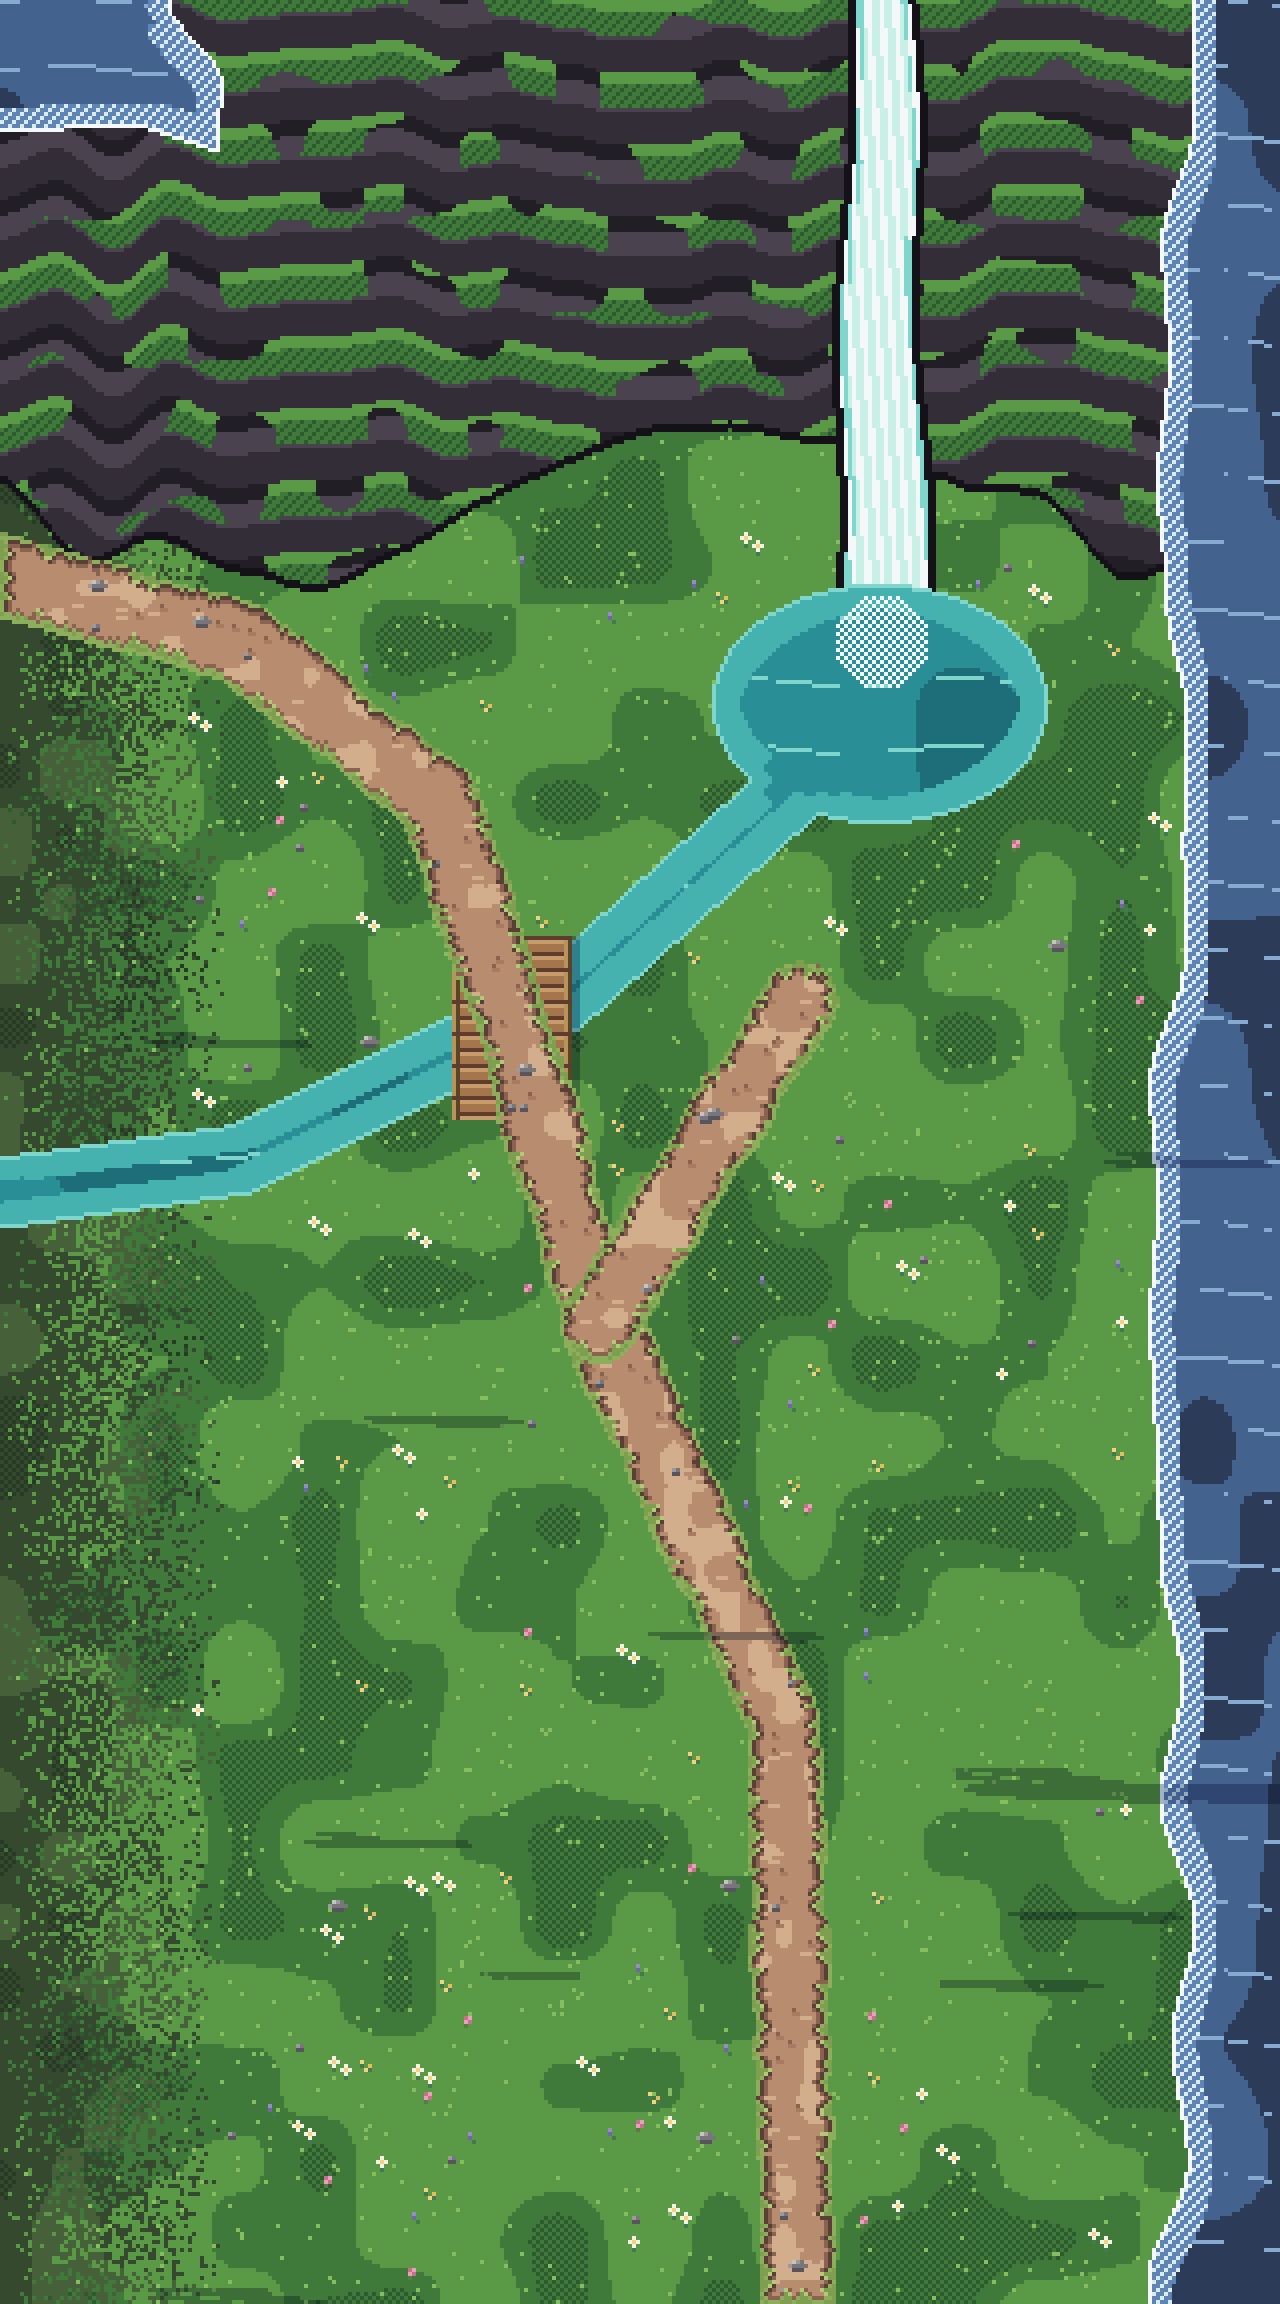
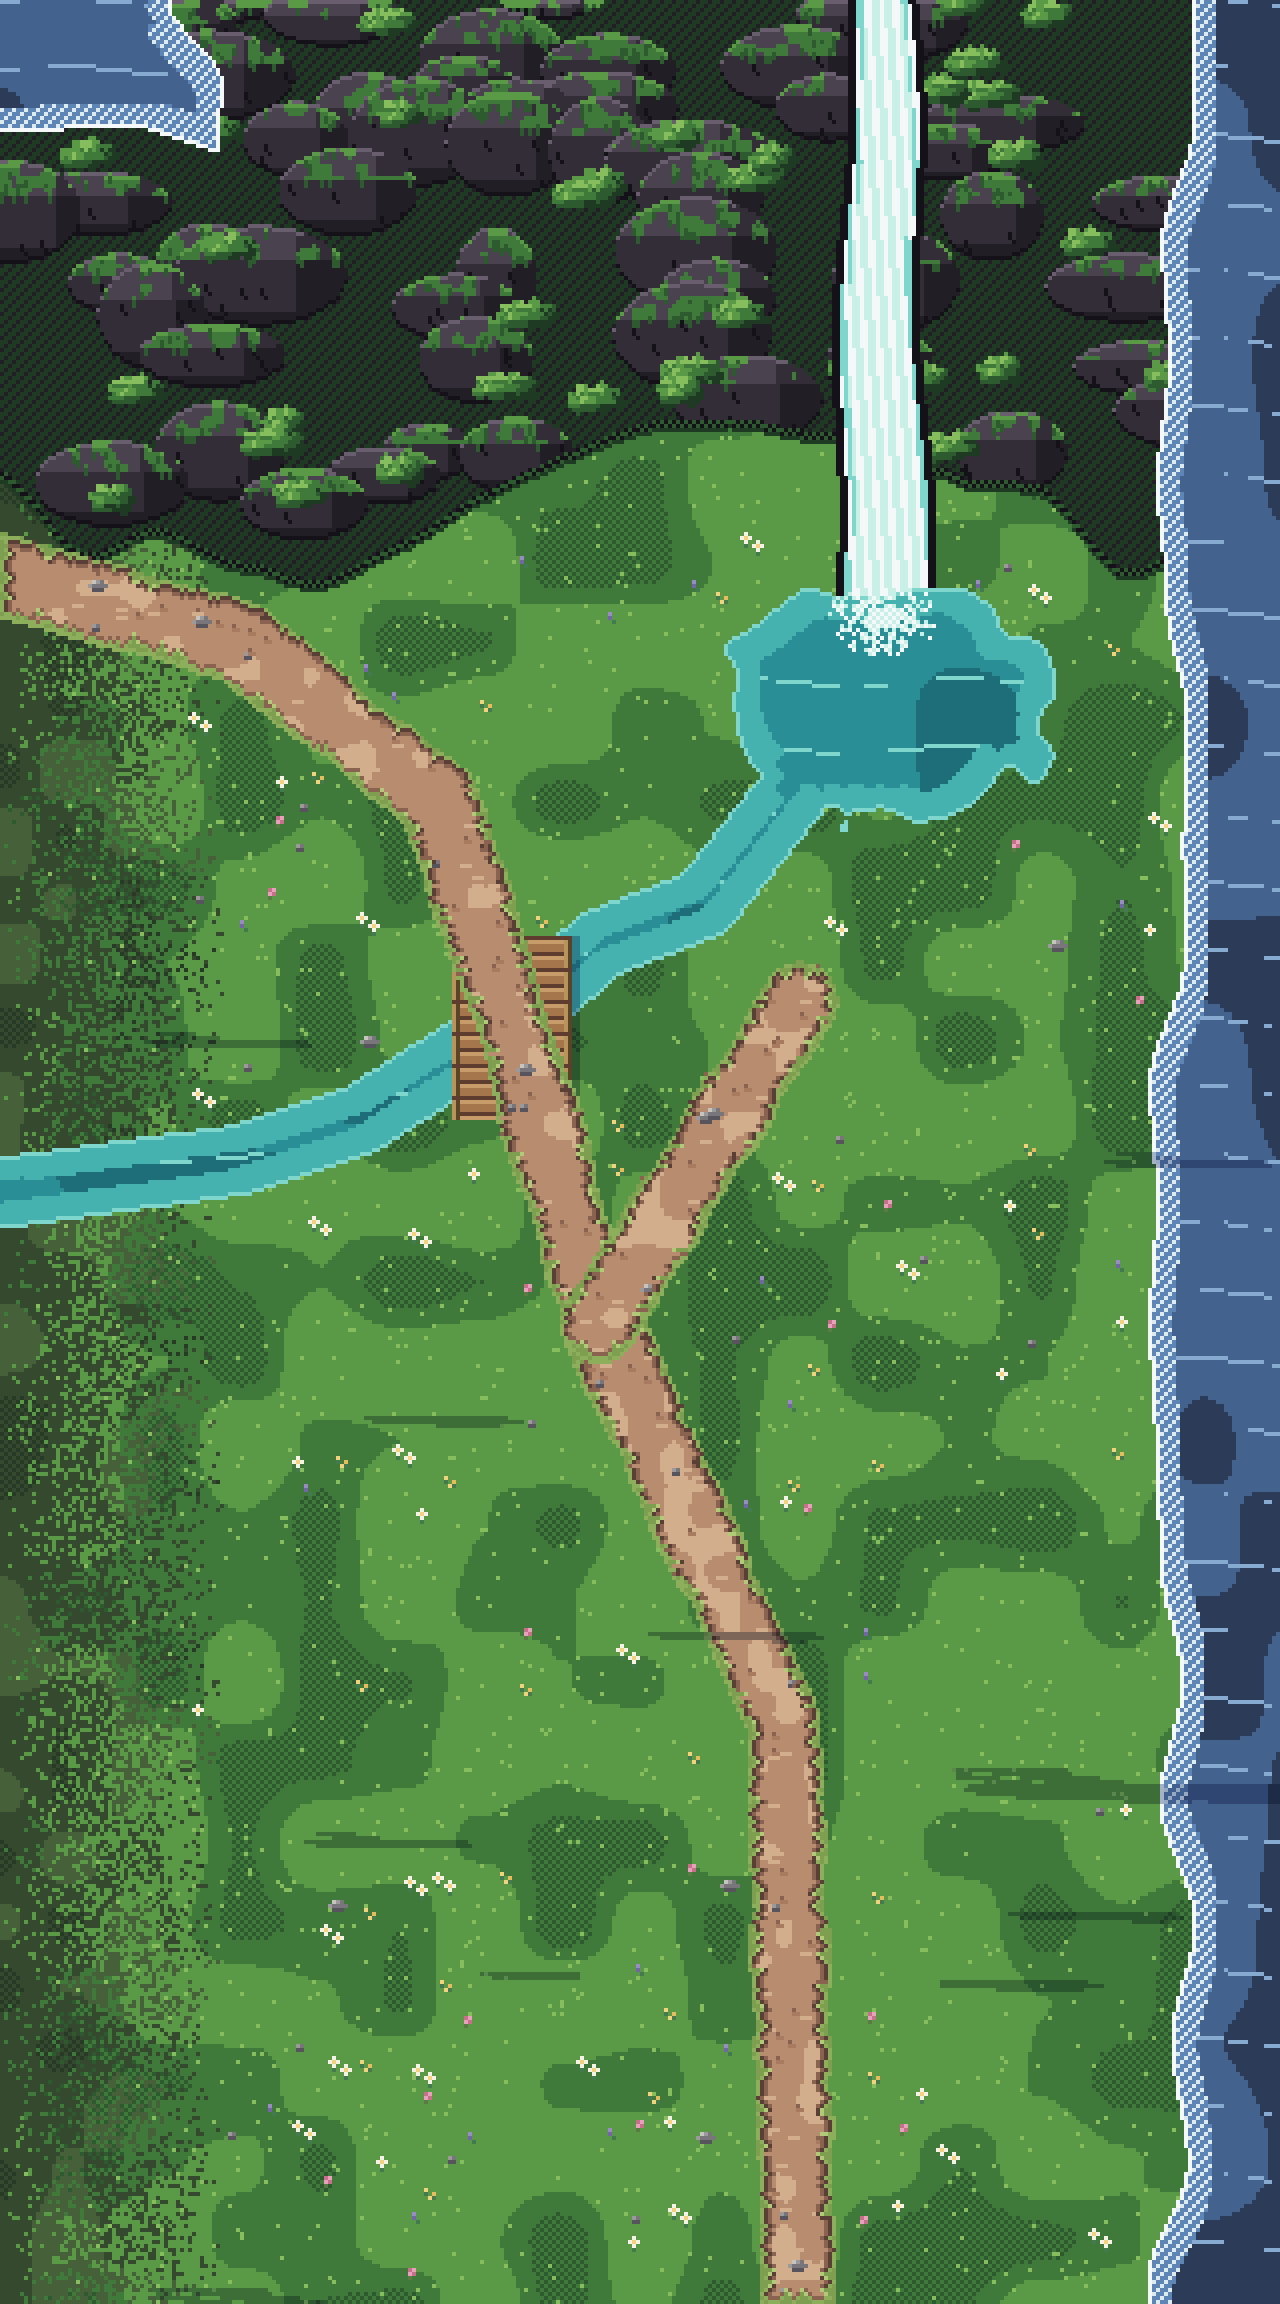
Detail on the new places: the volcano's flank above the waterfall is a jumble of great mossy basalt blocks with ferns in the joints, the pool takes a natural shore with foam where the fall lands, and the river winds; snow drifts down over the Saddle, the Lookout and Snowmelt Lake, and spray rises of
Claude-Session: https://claude.ai/code/session_01UudrmtYkicLNgZeuSjvjrK

diff --git a/lib/zone-maps.ts b/lib/zone-maps.ts
@@ -2137,45 +2137,45 @@ export const zoneMaps: Record<ZoneId, ZoneMap> = {
       '3.25#25.5#9.13#',
       '3.6#2.15#26.6#10.12#',
       '5.2#6.11#28.6#10.12#',
-      '16.7#28.8#10.11#',
-      '49.12#11.8#',
+      '16.7#27.11#8.11#',
+      '48.14#10.8#',
       '47.16#9.8#',
-      '46.18#9.7#',
       '45.20#8.7#',
-      '45.20#8.7#',
-      '44.22#7.7#',
-      '44.22#8.6#',
-      '44.22#8.6#',
-      '44.22#8.6#',
-      '45.20#9.6#',
-      '45.20#9.6#',
-      '46.18#10.6#',
-      '45.18#11.6#',
-      '44.17#13.6#',
-      '43.16#15.6#',
-      '42.8#23.7#',
-      '41.8#24.7#',
-      '40.8#26.6#',
-      '39.8#27.6#',
-      '38.8#28.6#',
-      '36.9#29.6#',
+      '45.21#7.7#',
+      '45.21#7.7#',
+      '46.20#7.7#',
+      '45.21#8.6#',
+      '45.21#8.6#',
+      '46.19#9.6#',
+      '46.20#8.6#',
+      '46.20#8.6#',
+      '47.19#8.6#',
+      '46.16#12.6#',
+      '45.16#13.6#',
+      '44.9#3.4#14.6#',
+      '44.7#22.7#',
+      '43.7#23.7#',
+      '42.7#25.6#',
+      '39.9#26.6#',
+      '36.12#26.6#',
+      '35.12#27.6#',
+      '28.1#5.12#28.6#',
       '28.1#6.9#30.6#',
-      '28.1#6.7#32.6#',
       '28.1#6.6#32.7#',
-      '28.1#6.5#33.7#',
       '28.1#6.4#34.7#',
-      '6.9#12.2#6.3#34.8#',
-      '6.9#10.4#6.2#35.8#',
-      '23.6#6.1#36.8#',
+      '28.1#6.3#35.7#',
+      '6.9#13.1#6.2#35.8#',
+      '6.9#11.3#6.1#36.8#',
+      '24.5#6.1#36.8#',
+      '23.6#6.1#35.9#',
       '21.8#6.1#35.9#',
-      '19.10#6.1#35.9#',
-      '17.12#6.1#35.9#',
-      '15.12#1.1#6.1#35.9#',
-      '10.15#41.14#',
-      '3.20#43.14#',
-      '21#45.14#',
-      '19#53.8#',
-      '17#55.8#',
+      '18.11#6.1#35.9#',
+      '15.14#6.1#35.9#',
+      '10.17#39.14#',
+      '3.22#41.14#',
+      '24#42.14#',
+      '21#51.8#',
+      '18#54.8#',
       '13#59.8#',
       '6#66.8#',
       '72.8#',
@@ -6973,44 +6973,44 @@ export const zoneTerrain: Record<ZoneId, readonly string[]> = {
     '3.24^26.5^9.5^8~',
     '1.1=2.4^4.13^28.5^10.5^7~',
     '1.6=7.9^30.5^11.4^7~',
-    '1.7=9.5^31.4~1^15.7~',
-    '1.12=37.10~13.7~',
+    '1.7=9.5^31.5^15.7~',
+    '1.12=36.13~11.7~',
     '1.15=32.14~11.7~',
-    '5.13=29.16~10.7~',
-    '9.10=27.18~9.7~',
-    '12.8=25.20~8.7~',
-    '14.7=24.20~9.6~',
-    '16.6=22.22~8.6~',
-    '17.6=21.22~8.6~',
-    '18.7=20.20~9.6~',
-    '20.6=19.20~9.6~',
-    '21.6=19.18~10.6~',
-    '22.7=18.16~11.6~',
-    '23.6=17.16~12.6~',
-    '25.5=15.15~14.6~',
-    '26.4=14.7~2.4~17.6~',
-    '26.4=13.6~25.6~',
-    '27.4=11.6~26.6~',
-    '27.4=10.6~27.6~',
-    '27.4=8.7~28.6~',
-    '27.4=7.7~29.6~',
-    '28.4=5.7~30.6~',
-    '28.4=4.7~31.6~',
-    '28.1^3=3.7~32.6~',
-    '28.1^4=2.6~33.6~',
-    '29.4=2.4~9.3=23.6~',
-    '30.3=2.3~10.4=21.7~',
-    '28.1~1.3=2.2~10.4=22.7~',
-    '26.3~1.4=1.1~11.4=22.7~',
+    '5.13=28.17~10.7~',
+    '9.10=26.20~8.7~',
+    '12.8=26.20~7.7~',
+    '14.7=25.20~8.6~',
+    '16.6=24.20~8.6~',
+    '17.6=23.19~9.6~',
+    '18.7=21.19~9.6~',
+    '20.6=20.20~8.6~',
+    '21.6=20.19~8.6~',
+    '22.7=18.15~2.1~9.6~',
+    '23.6=18.15~12.6~',
+    '25.5=16.15~13.6~',
+    '26.4=15.6~6.1~16.6~',
+    '26.4=14.6~24.6~',
+    '27.4=12.6~25.6~',
+    '27.4=12.6~25.6~',
+    '27.4=9.8~26.6~',
+    '27.4=7.9~27.6~',
+    '28.4=4.10~28.6~',
+    '28.4=3.10~29.6~',
+    '28.1^3=3.8~31.6~',
+    '28.1^4=2.5~34.6~',
+    '29.4=2.3~10.3=23.6~',
+    '30.3=2.2~11.4=21.7~',
+    '30.3=2.1~11.4=22.7~',
+    '27.2~1.4=13.4=22.7~',
+    '25.4~2.3=12.4=22.8~',
     '24.5~2.3=12.4=22.8~',
-    '22.7~2.3=12.4=22.8~',
-    '20.9~2.4=1^9.4=23.8~',
-    '18.10~4.3=1^8.4=24.8~',
-    '16.10~6.3=1^9.3=24.8~',
-    '13.11~8.4=7.5=24.8~',
-    '5.17~10.4=6.5=25.8~',
-    '20~13.3=6.4=26.8~',
-    '18~15.4=4.4=27.8~',
+    '22.7~2.4=1^9.4=23.8~',
+    '20.9~3.3=1^8.4=24.8~',
+    '17.11~4.3=1^9.3=24.8~',
+    '13.13~6.4=7.5=24.8~',
+    '5.19~8.4=6.5=25.8~',
+    '22~11.3=6.4=26.8~',
+    '19~14.4=4.4=27.8~',
     '16~17.4=3.5=27.8~',
     '10~24.3=3.4=28.8~',
     '3~31.3=2.4=29.8~',

diff --git a/components/atlas-life.tsx b/components/atlas-life.tsx
@@ -36,6 +36,7 @@ type Kind =
   | 'lizard'
   | 'fish'
   | 'leaf'
+  | 'flake'
   | 'twinkle';
 type Emitter = { kind: Kind; x: number; y: number; seed: number };
 
@@ -52,6 +53,7 @@ const PERIOD = {
   fish: 12000,
   leaf: 7200,
   twinkle: 4500,
+  flake: 9000,
 } as const;
 
 // Where a prop gives off something, relative to its top-left in zone pixels.
@@ -96,6 +98,15 @@ function rainOver(drops: number): Emitter[] {
   }));
 }
 
+function snowfall(flakes: number, seed: number): Emitter[] {
+  return Array.from({ length: flakes }, (_, i) => ({
+    kind: 'flake' as const,
+    x: (i * 97 + seed) % 300,
+    y: (i * 131 + seed * 3) % 480,
+    seed: seed + i,
+  }));
+}
+
 // stars twinkling over Lumen's horizon (the sky above y = 60, clear of the planet)
 const LUMEN_STARS: Emitter[] = Array.from({ length: 14 }, (_, i) => ({
   kind: 'twinkle' as const,
@@ -129,6 +140,15 @@ const ZONE_EXTRAS: Partial<Record<ZoneId, Emitter[]>> = {
   scorch: [
     { kind: 'ember', x: 72, y: 240, seed: 17 },
     { kind: 'ember', x: 116, y: 500, seed: 18 },
+  ],
+  // the Frostline: a few flakes always drifting on the high ground
+  saddle: snowfall(12, 70),
+  summit: snowfall(12, 80),
+  snowmelt: snowfall(9, 90),
+  // the waterfall's spray rising off the pool
+  headwaters: [
+    { kind: 'puff', x: 214, y: 158, seed: 23 },
+    { kind: 'puff', x: 226, y: 164, seed: 24 },
   ],
   // the Tidebloom Isles: gulls over the cove, fish in the lagoon by the pier
   cove: [
@@ -267,6 +287,11 @@ function Particle({ e, clock, u }: { e: Emitter; clock: SharedValue<number>; u: 
       dx = j * 10;
       dy = t > 0.8 ? -Math.sin(j * 3.14) * 9 : 0;
       scale = j > 0.85 ? 2 : 1;
+    } else if (e.kind === 'flake') {
+      // a snowflake drifting down, swaying, faded in and out
+      dx = Math.sin(t * 12.6 + phase * 6) * 5 + t * 8;
+      dy = t * 60;
+      opacity = t < 0.15 ? t / 0.15 : t > 0.8 ? (1 - t) / 0.2 : 1;
     } else if (e.kind === 'leaf') {
       dx = Math.sin(t * 12.6) * 8 + t * 10;
       dy = t * 70;
@@ -310,6 +335,7 @@ function Particle({ e, clock, u }: { e: Emitter; clock: SharedValue<number>; u: 
   if (e.kind === 'firefly') return <Animated.View style={[box(1, 1, '#E8FF8A'), style]} />;
   if (e.kind === 'twinkle') return <Animated.View style={[box(1, 1, '#FFFFFF'), style]} />;
   if (e.kind === 'leaf') return <Animated.View style={[box(2, 1, '#E07A28'), style]} />;
+  if (e.kind === 'flake') return <Animated.View style={[box(1, 1, '#FFFFFF'), style]} />;
   if (e.kind === 'fish')
     return (
       <Animated.View style={[{ position: 'absolute', left: 0, top: 0 }, style]}>

diff --git a/scripts/art/zones.py b/scripts/art/zones.py
@@ -2729,27 +2729,42 @@ def isle_headwaters(frame: int = 0):
     isle_ground(cv, TROPIC, 931)
     forest_edge(cv, 'west', 939)
     MOSS = ['#22362A', '#2F4A34', '#3E6040', '#56784A']
-    # the volcano's flank across the top: mossy rock, steep, blocked
+    # the volcano's flank across the top: a steep jumble of great mossy basalt blocks
+    # stepping up out of the forest, ferns in the joints between them (blocked)
     flank = set()
+    tops = {}
     for x in range(W):
-        top = 120 + int(math.sin(x / 40) * 18 + smooth_noise(x, 0, 20, 932) * 14)
-        for y in range(0, top):
-            # dark basalt in steps, each ledge's top furred green with moss and fern
-            k = (y + int(smooth_noise(x, 0, 14, 933) * 10)) % 18
-            rockc = BASALT_R[2] if k > 9 else BASALT_R[3] if k > 3 else BASALT_R[1]
-            green = smooth_noise(x, y, 12, 934) > 0.45 and k < 9
-            c = (TROPIC[3] if k < 3 else TROPIC[2] if (x + y) % 3 else TROPIC[1]) if green else rockc
-            if y > top - 3:
-                c = BASALT_R[0]
-            cv.set(x, y, c)
+        tops[x] = 120 + int(math.sin(x / 40) * 18 + smooth_noise(x, 0, 20, 932) * 14)
+        for y in range(0, tops[x]):
+            # the deep shade between the blocks: wet dark green, not black
+            cv.set(x, y, TROPIC[0] if (x + y) % 3 else BASALT_R[1])
             flank.add((x, y))
+    blocks = []
+    for i in range(70):  # back (high) to front (low), so the lower blocks overlap
+        bx = int(noise2(i, 0, 951) * (W + 20)) - 10
+        by = int(noise2(i, 1, 951) * 150) - 20
+        if by + 8 > tops[max(0, min(W - 1, bx))]:
+            continue
+        blocks.append((by, bx, 10 + noise2(i, 2, 951) * 12, 7 + noise2(i, 3, 951) * 7, i))
+    for (by, bx, rx, ry, i) in sorted(blocks):
+        pts = {(x, y) for (x, y) in oval(bx, by, rx, ry) if (x, y) in flank}
+        if len(pts) > 12:
+            style.facet_stone(cv, pts, BASALT_R, moss=TROPIC, seed=960 + i, outline=None)
+    for i in range(40):  # ferns and moss tumbling from the joints
+        fx = int(noise2(i, 4, 951) * W)
+        fy = int(noise2(i, 5, 951) * (tops[max(0, min(W - 1, fx))] - 6))
+        style.leafy(cv, fx, fy, 4 + noise2(i, 6, 951) * 3, 3, TROPIC, r=1.8, seed=970 + i)
+    for x in range(W):  # the forest's dark edge at the flank's foot
+        for d in range(3):
+            cv.set(x, tops[x] - 1 - d, TROPIC[0] if d == 0 else TROPIC[1] if (x + d) % 2 else BASALT_R[0])
     # the top-left corner meets the rainforest's sea
     sea = {(x, y) for x in range(W) for y in range(H)
            if (x < 60 - int(smooth_noise(0, y, 20, 934) * 20) and y < 34 + int(smooth_noise(x, 0, 30, 923) * 14) - 8)}
     east = {(x, y) for x in range(W) for y in range(H) if x > 286 + int(smooth_noise(0, y, 30, 935) * 12)}
     isle_water(cv, sea | east, MATERIALS['water'], 936, surf=True)
     # the fall: white water down the flank into the pool
-    pool = {(x, y) for (x, y) in oval(220, 176, 42, 30)}
+    pool = {(x, y) for x in range(170, 270) for y in range(140, 215)
+            if math.hypot((x - 220) / 42, (y - 176) / 30) < 1 - (smooth_noise(x, y, 10, 955) - 0.5) * 0.3}
     for y in range(0, 160):
         half = 7 + y / 40
         for x in range(200, 240):
@@ -2762,11 +2777,12 @@ def isle_headwaters(frame: int = 0):
                 flank.add((x, y))
             elif off < half + 2:
                 cv.set(x, y, BASALT_R[0])
-    river = river_pts([(200, 196), (140, 250), (60, 290), (-12, ISLE_RIVER_WE)])
+    river = river_pts([(200, 196), (176, 226), (150, 236), (128, 256), (90, 280), (60, 290), (-12, ISLE_RIVER_WE)])
     isle_water(cv, pool | river, LAGOON, 937)
-    for (x, y) in pool:  # spray where the fall lands
-        if math.hypot(x - 220, y - 160) < 12 and (x + y) % 2:
-            cv.set(x, y, '#F4F8F8')
+    for (x, y) in pool:  # foam where the fall lands, thinning outward
+        d = math.hypot(x - 220, (y - 154) * 1.4)
+        if d < 14 and noise2(x, y, 956) * 14 > d - 2:
+            cv.set(x, y, '#F4F8F8' if (x + y) % 2 else LAGOON[4])
     deck, rails = plank_bridge(cv, 113, 234, 30, 46, vertical=True)
     trail = isle_trail(cv, [(-12, ISLE_TRAIL_WE['north']), (60, 160), (110, 200), (128, 255), (150, 330), (196, 430), (ISLE_TRAIL_NS, H + 12)], 938)
     trail |= isle_trail(cv, [(150, 330), (200, 250)], 939)  # the spur to the pool's edge
